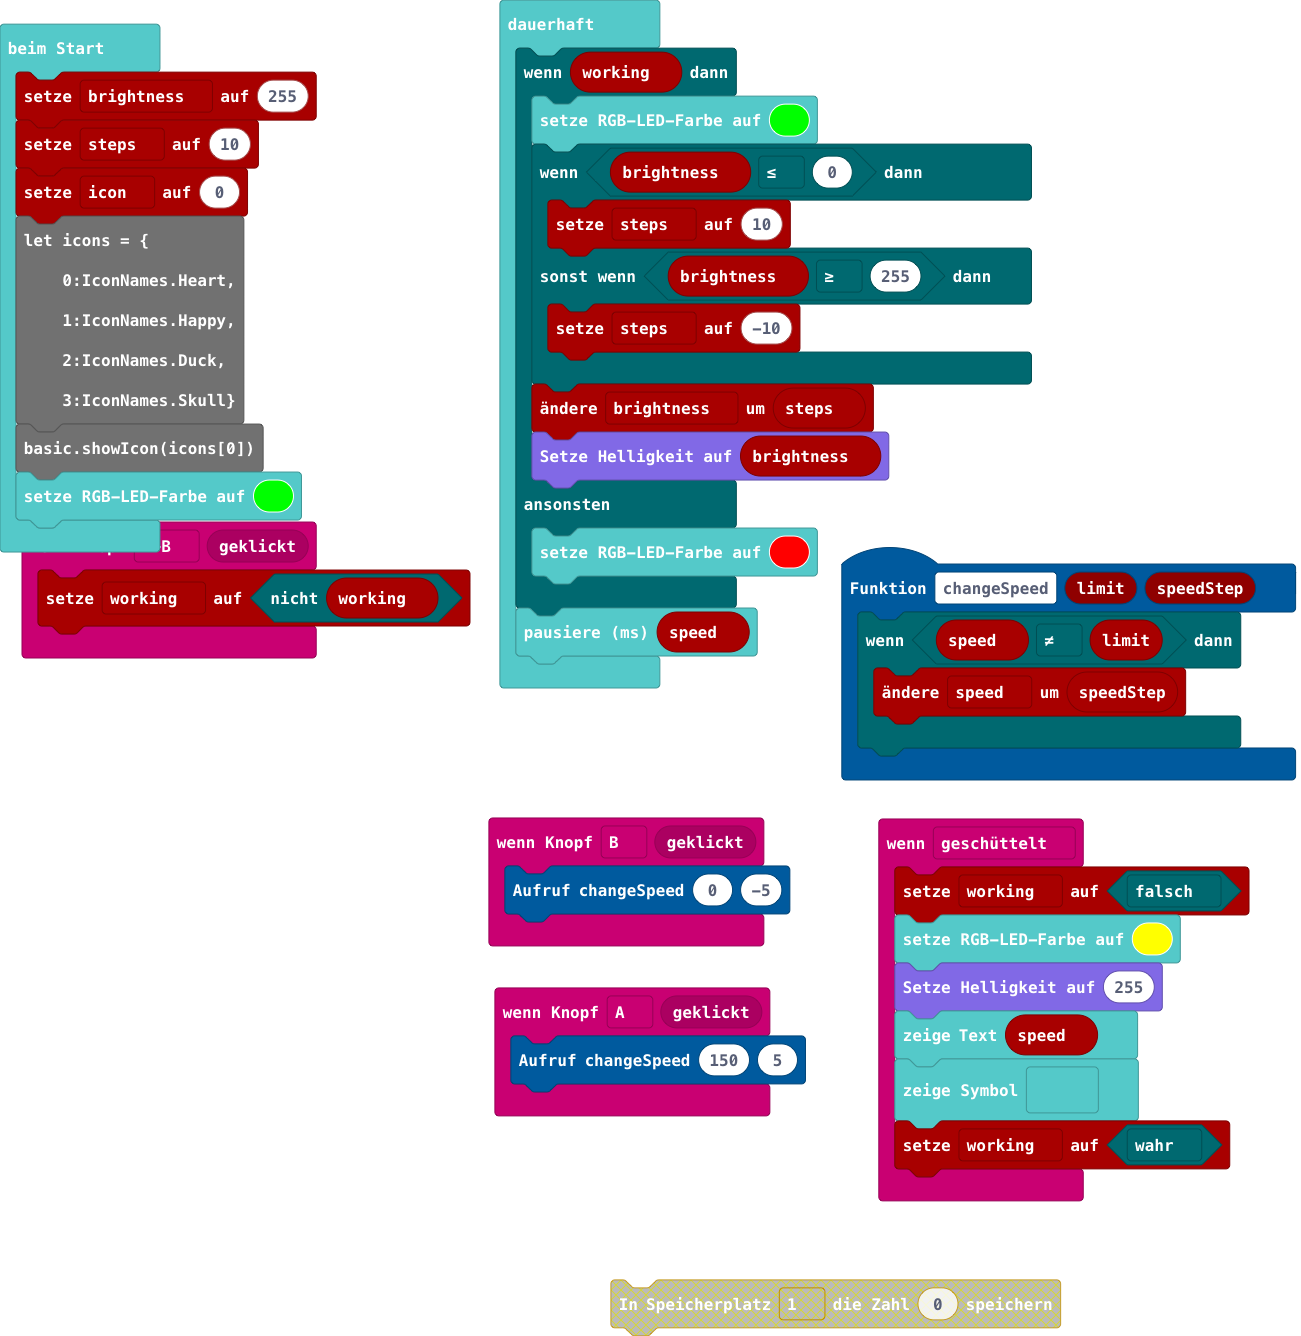
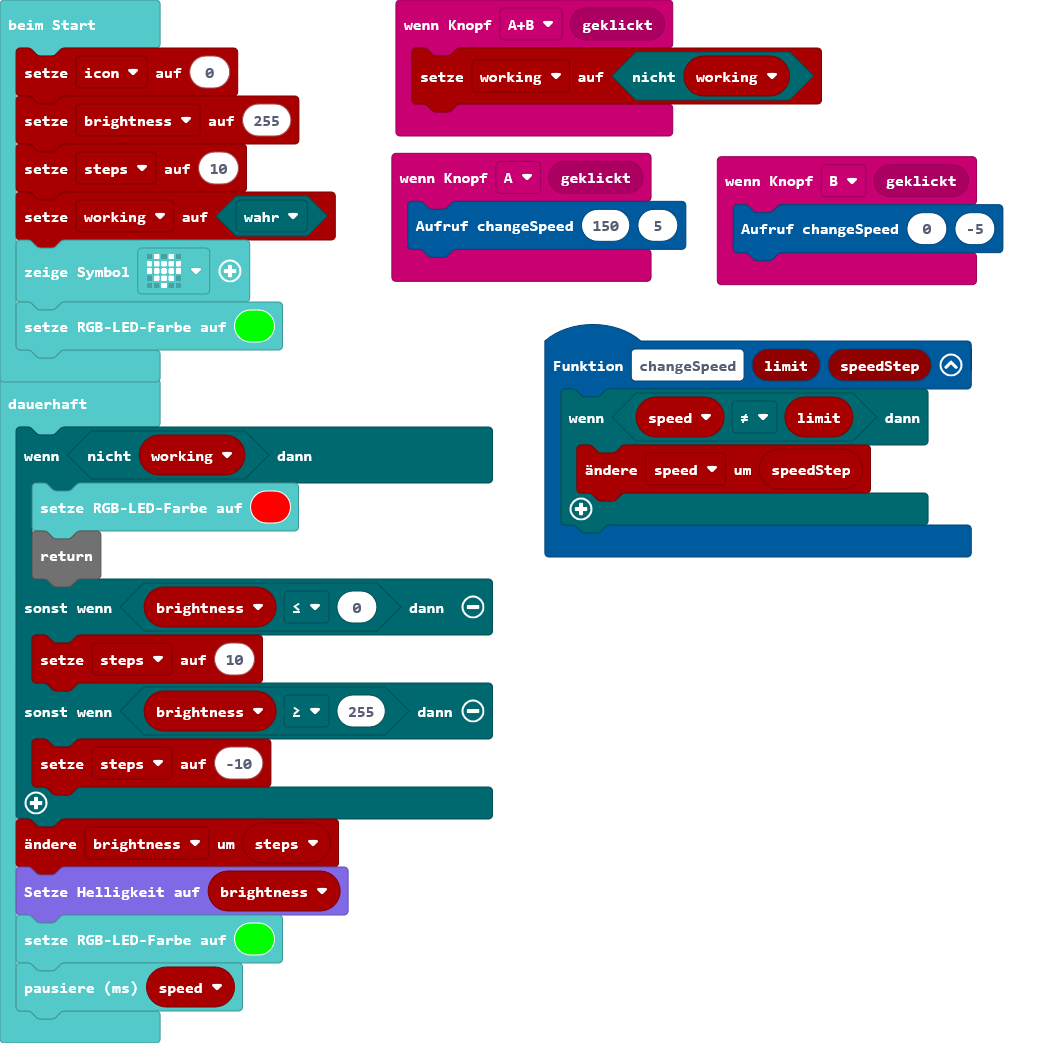
Geschüttelt entfernt, wenn-dann abfrage gekürzt

diff --git a/main.ts b/main.ts
@@ -12,38 +12,25 @@ function changeSpeed (limit: number, speedStep: number) {
         speed += speedStep
     }
 }
-input.onGesture(Gesture.Shake, function () {
-    working = false
-    basic.setLedColor(0xffff00)
-    led.setBrightness(255)
-    basic.showString("" + (speed))
-    basic.showIcon(IconNames.Heart)
-    working = true
-})
 let speed = 0
 let working = false
+let icon = 0
 let brightness = 255
 let steps = 10
-let icon:number = 0
-let icons = {
-    0:IconNames.Heart,
-    1:IconNames.Happy,
-    2:IconNames.Duck,
-    3:IconNames.Skull}
-basic.showIcon(icons[icon])
+working = true
+basic.showIcon(IconNames.Heart)
 basic.setLedColor(0x00ff00)
 basic.forever(function () {
-    if (working) {
-        basic.setLedColor(0x00ff00)
-        if (brightness <= 0) {
-            steps = 10
-        } else if (brightness >= 255) {
-            steps = -10
-        }
-        brightness += steps
-        led.setBrightness(brightness)
-    } else {
+    if (!(working)) {
         basic.setLedColor(0xff0000)
+        return
+    } else if (brightness <= 0) {
+        steps = 10
+    } else if (brightness >= 255) {
+        steps = -10
     }
+    brightness += steps
+    led.setBrightness(brightness)
+    basic.setLedColor(0x00ff00)
     basic.pause(speed)
 })
